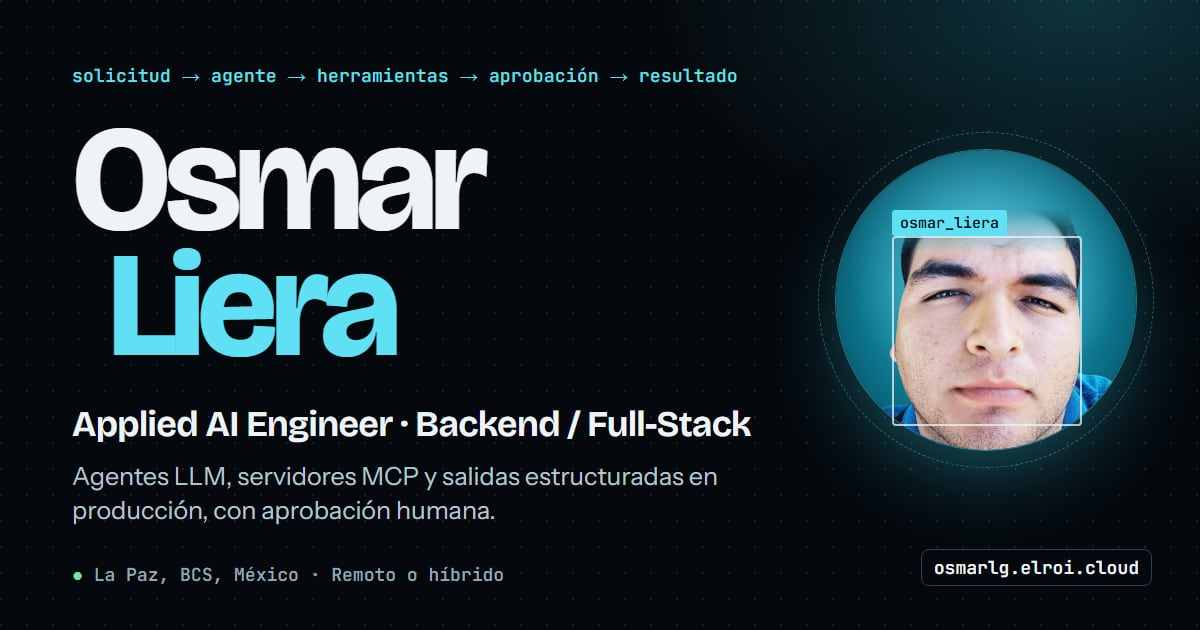
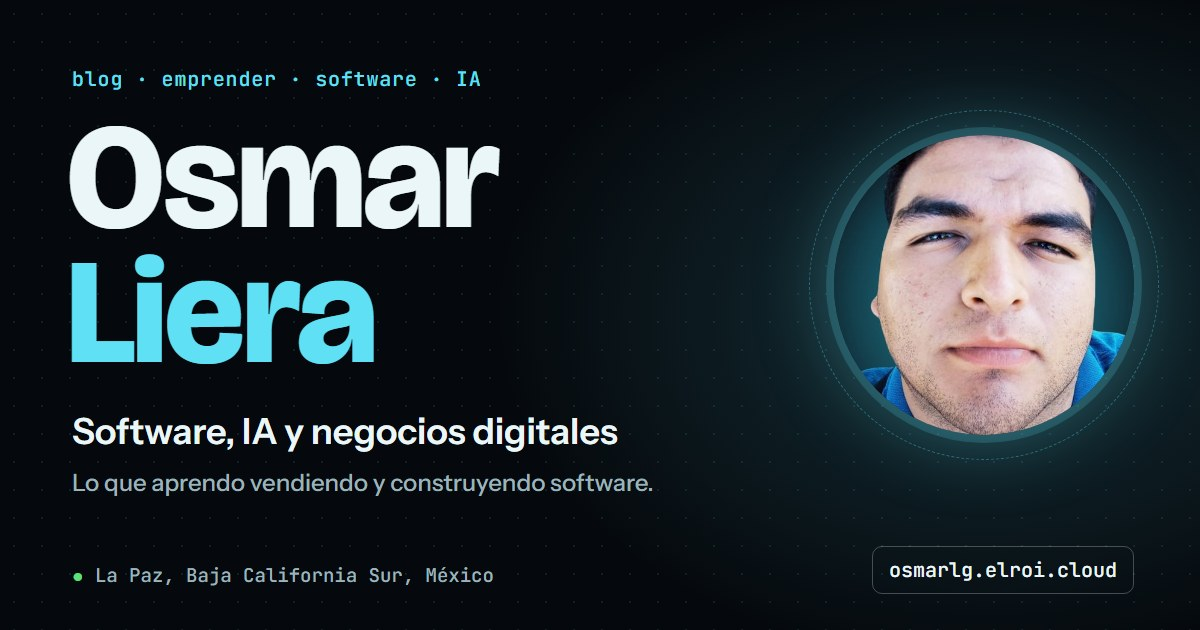
fix(blog): content team's corrections, new personal-brand share image for the Spanish home; the CV keeps its own share image

diff --git a/src/i18n/es.ts b/src/i18n/es.ts
@@ -14,7 +14,7 @@ const es: Dictionary = {
     cvTitle: 'CV de Osmar Liera · Ingeniero de IA Aplicada, Backend y Full-Stack',
     cvDescription:
       'Currículum completo de Osmar Liera: IA aplicada (agentes LLM, MCP, OCR con OpenAI Vision), backend con Python/FastAPI y Laravel, y desarrollo Full-Stack. Descarga los PDF.',
-    ogAlt: 'Osmar Liera — Applied AI Engineer · Backend / Full-Stack',
+    ogAlt: 'Osmar Liera — Software, IA y negocios digitales · La Paz, Baja California Sur, México',
     ogImage: '/og/og-es.jpg',
   },
   ui: {
